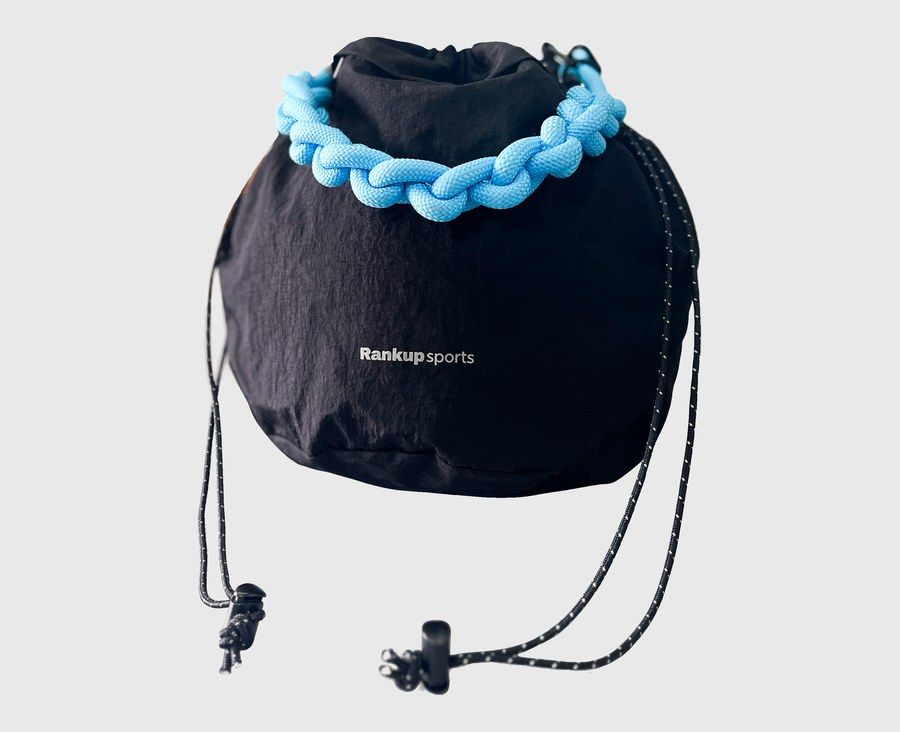
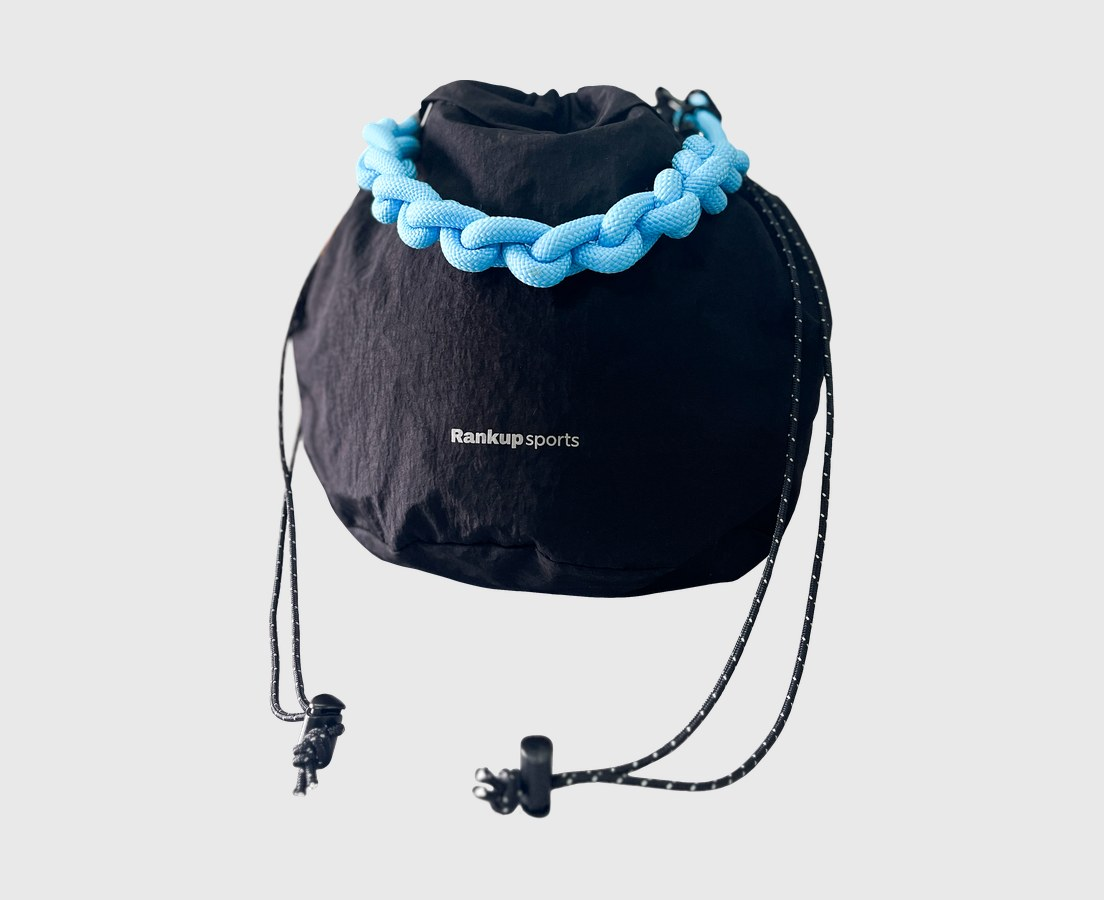
Update the block05 bag photos and wire up the black variant
Rebuilds the eight bag images from the new pic.zip shoot. The new files
are RGBA cut-outs rather than the white-background shots the old assets
came from, so they are composited straight onto the #E9E9E9 box colour
instead of going through the previous "recolour near-white" pass.

Framing now follows block05.pdf rather than the old flat 90%-fill: the
canvas matches the box aspect (1.227) and each bag is centred at the
comp's height — 82.1% for the ball bag, 69.1% for the shoe bag. The ball
bag lands at 51.2% of the box width against the comp's 51.3%.

The shoot also adds a black colourway for both bags, which we never had.
The black swatch was the one dot with no data-img, so it now switches
like the rest — all four bag colours are live.

The three rope files in the zip are byte-identical to the ones already in
the repo, so the rope assets are untouched. There is still no black rope,
so that dot alone stays photo-less, matching the original note that only
three rope colours were shot.

Verified: all four swatches swap correctly on both bags, both new images
load at 1104x900, the rope trio still swaps, and no console errors.

Changed region(s): [[0.2178, 0.0301, 0.7778, 0.9617]]

diff --git a/index.html b/index.html
@@ -8,7 +8,7 @@
 <link rel="preconnect" href="https://fonts.googleapis.com" />
 <link rel="preconnect" href="https://fonts.gstatic.com" crossorigin />
 <link href="https://fonts.googleapis.com/css2?family=Archivo+Black&family=Big+Shoulders:wght@600;800&family=Bowlby+One+SC&family=Caprasimo&family=Dancing+Script:wght@600;700&family=Golos+Text:wght@400;500;700;900&family=DotGothic16&family=Jacquarda+Bastarda+9&family=Permanent+Marker&family=Roboto:wght@300;400;500;700;900&family=Zen+Maru+Gothic:wght@400;500;700&family=League+Spartan:wght@500;700&family=M+PLUS+1p:wght@400;500;700&family=Space+Grotesk:wght@500;700&family=Bowlby+One&family=Zen+Kaku+Gothic+New:wght@400;500;700&family=Montserrat:wght@400;500;700&family=Libre+Bodoni:wght@700&family=Cormorant+Garamond:ital,wght@1,600&family=Geist+Pixel&family=Jersey+10&family=Jersey+20&family=Encode+Sans+Condensed:wght@700&display=swap" rel="stylesheet" />
-<link rel="stylesheet" href="styles.css?v=47" />
+<link rel="stylesheet" href="styles.css?v=48" />
 </head>
 <body>
 
@@ -566,7 +566,7 @@
         <figure class="shop__prod">
           <div class="shop__box"><img class="shop__img" src="assets/block05/ball_blue.jpg" alt="Drawstring Ball Bag" /></div>
           <div class="shop__dots" role="group" aria-label="Rope color">
-            <button type="button" class="shop__dot" style="--c:#282828" aria-label="Black"></button>
+            <button type="button" class="shop__dot" style="--c:#282828" data-img="assets/block05/ball_black.jpg" aria-label="Black"></button>
             <button type="button" class="shop__dot" style="--c:#BDC0CB" data-img="assets/block05/ball_gray.jpg" aria-label="Gray"></button>
             <button type="button" class="shop__dot" style="--c:#FF3E97" data-img="assets/block05/ball_pink.jpg" aria-label="Pink"></button>
             <button type="button" class="shop__dot is-on" style="--c:#00DEFF" data-img="assets/block05/ball_blue.jpg" aria-label="Blue"></button>
@@ -576,7 +576,7 @@
         <figure class="shop__prod">
           <div class="shop__box"><img class="shop__img" src="assets/block05/shoe_pink.jpg" alt="Shoe Barrel Bag" /></div>
           <div class="shop__dots" role="group" aria-label="Rope color">
-            <button type="button" class="shop__dot" style="--c:#282828" aria-label="Black"></button>
+            <button type="button" class="shop__dot" style="--c:#282828" data-img="assets/block05/shoe_black.jpg" aria-label="Black"></button>
             <button type="button" class="shop__dot" style="--c:#BDC0CB" data-img="assets/block05/shoe_gray.jpg" aria-label="Gray"></button>
             <button type="button" class="shop__dot is-on" style="--c:#FF3E97" data-img="assets/block05/shoe_pink.jpg" aria-label="Pink"></button>
             <button type="button" class="shop__dot" style="--c:#00DEFF" data-img="assets/block05/shoe_blue.jpg" aria-label="Blue"></button>
